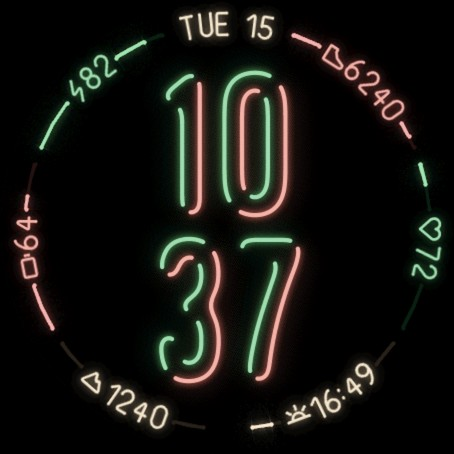
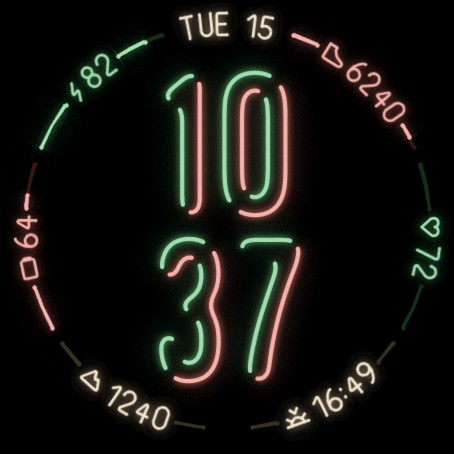
The Pro faces 1.0.3: the review's fixes, their listings, screens and covers; Lib.Look takes a re-picked look

diff --git a/docs/STORE.md b/docs/STORE.md
@@ -440,8 +440,16 @@ reading.
 
 Choose any reading the watch has for each of the six, other apps' included:
 in the watch face editor (Customize), in the face's settings on the watch,
-or in the phone app. Steps, heart rate, sunrise and sunset, altitude,
-battery and Body Battery to begin with. Press and hold a reading to open it.
+or in the phone app. Heart rate, steps, battery, Body Battery, stress, temperature, weather,
+calories, floors, intensity minutes, altitude, Pulse Ox, respiration, sunrise
+and sunset, notifications, recovery, VO2 max, sleep score, pressure and your
+next calendar event, most with a mark of their own; it begins with steps,
+heart rate, sunset, altitude, battery and Body Battery. Press and hold a reading to open it.
+
+A run is lit only where a reading has a goal or a level: your steps, floors and
+intensity minutes toward your goal, the battery and Body Battery as they run
+down, the sleep score and stress. Heart rate, sunrise and sunset, altitude and
+the others keep their run as unlit glass.
 
 Every reading is optional. Leave any of the six empty (None in the phone
 app or the face's settings, nothing in the watch face editor) and nothing is
@@ -469,9 +477,10 @@ each minute.
 **Neon Sign Pro** (Watch face, $2.99). The Pro of Neon Sign: the same time as a
 neon sign on a black wall, each numeral bent from one glass tube, the hours
 over the minutes, and six readings round it, every one of them a tube too.
-Four go down the right of the face, a small bent mark and a number each. Two
-break the border of tube round the rim, at nine and at six, as a sign's
-border breaks for a word, and that border is lit as far as the reading has
+Four go down the right of the face, a small bent mark and a number each. Two more can
+break the border of tube round the rim, at six and at nine, as a sign's
+border breaks for a word (the one at nine starts empty, so the sign opens on
+the left), and that border is lit as far as the reading has
 got: your steps towards your goal, your battery as it runs down. The day and
 date are bent round the rim at twelve.
 
@@ -484,10 +493,16 @@ next calendar event, most with a mark of their own, and in the watch face
 editor other apps' readings too.
 Press and hold a reading to open it.
 
+A run is lit only where a reading has a goal or a level: your steps, floors and
+intensity minutes toward your goal, the battery and Body Battery as they run
+down, the sleep score and stress. Heart rate, sunrise and sunset, altitude and
+the others keep their run as unlit glass.
+
 Every reading is optional. Leave any of the six empty (None in the phone
 app or the face's settings, nothing in the watch face editor) and nothing is
-drawn there, not even its run of tube. Leave the one at nine empty and the
-sign keeps its readings to the right and below, the left side open; keep
+drawn there, not even its run of tube. It starts with the one at nine empty, so the
+sign keeps its readings to the right and below and the left side open; add it
+back if you like, keep
 only the four down the side, or none at all. A reading your watch can't
 give (the sleep score on a watch that doesn't keep one) is left empty in
 the same way.
@@ -534,10 +549,19 @@ twelve, from the same tube.
 
 Choose any reading the watch has for each of the six, other apps' included:
 in the watch face editor (Customize), in the face's settings on the watch,
-or in the phone app. Steps, heart rate, sunrise and sunset, altitude,
-battery and Body Battery to begin with. Press and hold a reading to open it.
+or in the phone app. Heart rate, steps, battery, Body Battery, stress, temperature, weather,
+calories, floors, intensity minutes, altitude, Pulse Ox, respiration, sunrise
+and sunset, notifications, recovery, VO2 max, sleep score, pressure and your
+next calendar event, most with a mark of their own; it begins with steps,
+heart rate, sunset, altitude, battery and Body Battery. Press and hold a reading to open it.
 
-Every reading is optional. Leave any of the six empty (None in the phone
+A run is lit only where a reading has a goal or a level: your steps, floors and
+intensity minutes toward your goal, the battery and Body Battery as they run
+down, the sleep score and stress. Heart rate, sunrise and sunset, altitude and
+the others keep their run as unlit glass.
+
+The numerals are a little smaller than Neon Edge's, to make room for the
+border. Every reading is optional. Leave any of the six empty (None in the phone
 app or the face's settings, nothing in the watch face editor) and nothing is
 drawn there, not even its run of tube: keep six, keep two either side of the
 numerals, keep one, or none at all and the numerals stand alone. A reading your watch can't
